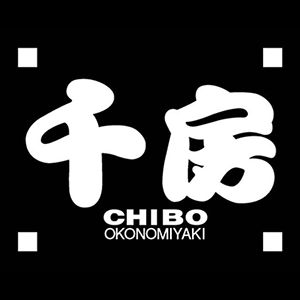
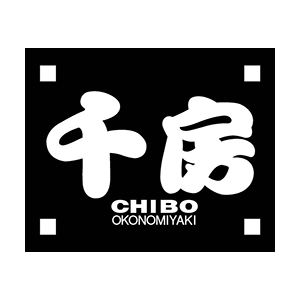
Change chibo.png

diff --git a/style.css b/style.css
@@ -1487,6 +1487,7 @@ footer a:focus {
 }
 
 .banner img {
+    margin-top: 16px;
     max-width: 150px;
     max-height: 150px;
 }

diff --git a/partner.php b/partner.php
@@ -34,14 +34,16 @@ Template Name: PARTNER
                         <ul class="list-banner">
                             <li class="banner">
                                 <a class="effect" href="http://www.cima-net.co.jp/" target="_blank" itemprop="url"><img src="<?php bloginfo('template_directory'); ?>/images/cima.png" alt="シーマ" itemprop="image">
-        <h3>株式会社シーマ</h3>
-    </a>
+                                <h3>株式会社シーマ</h3>
+                                </a>
                             </li>
                             <li class="banner">
                                 <a class="effect" href="http://www.senoya.jp/" target="_blank" itemprop="url"><img src="<?php bloginfo('template_directory'); ?>/images/senoya.png" alt="せのや" itemprop="image"><h3>株式会社せのや</h3></a>
                             </li>
                             <li class="banner">
-                                <a class="effect" href="http://www.cima-net.co.jp/" target="_blank" itemprop="url"><img src="<?php bloginfo('template_directory'); ?>/images/chibo.png" alt="千房" itemprop="image"></a>
+                                <a class="effect" href="http://www.cima-net.co.jp/" target="_blank" itemprop="url"><img src="<?php bloginfo('template_directory'); ?>/images/chibo.png" alt="千房" itemprop="image">
+                                <h3>千房</h3>
+                                </a>
                             </li>
                             <!--
                             <li class="banner">
